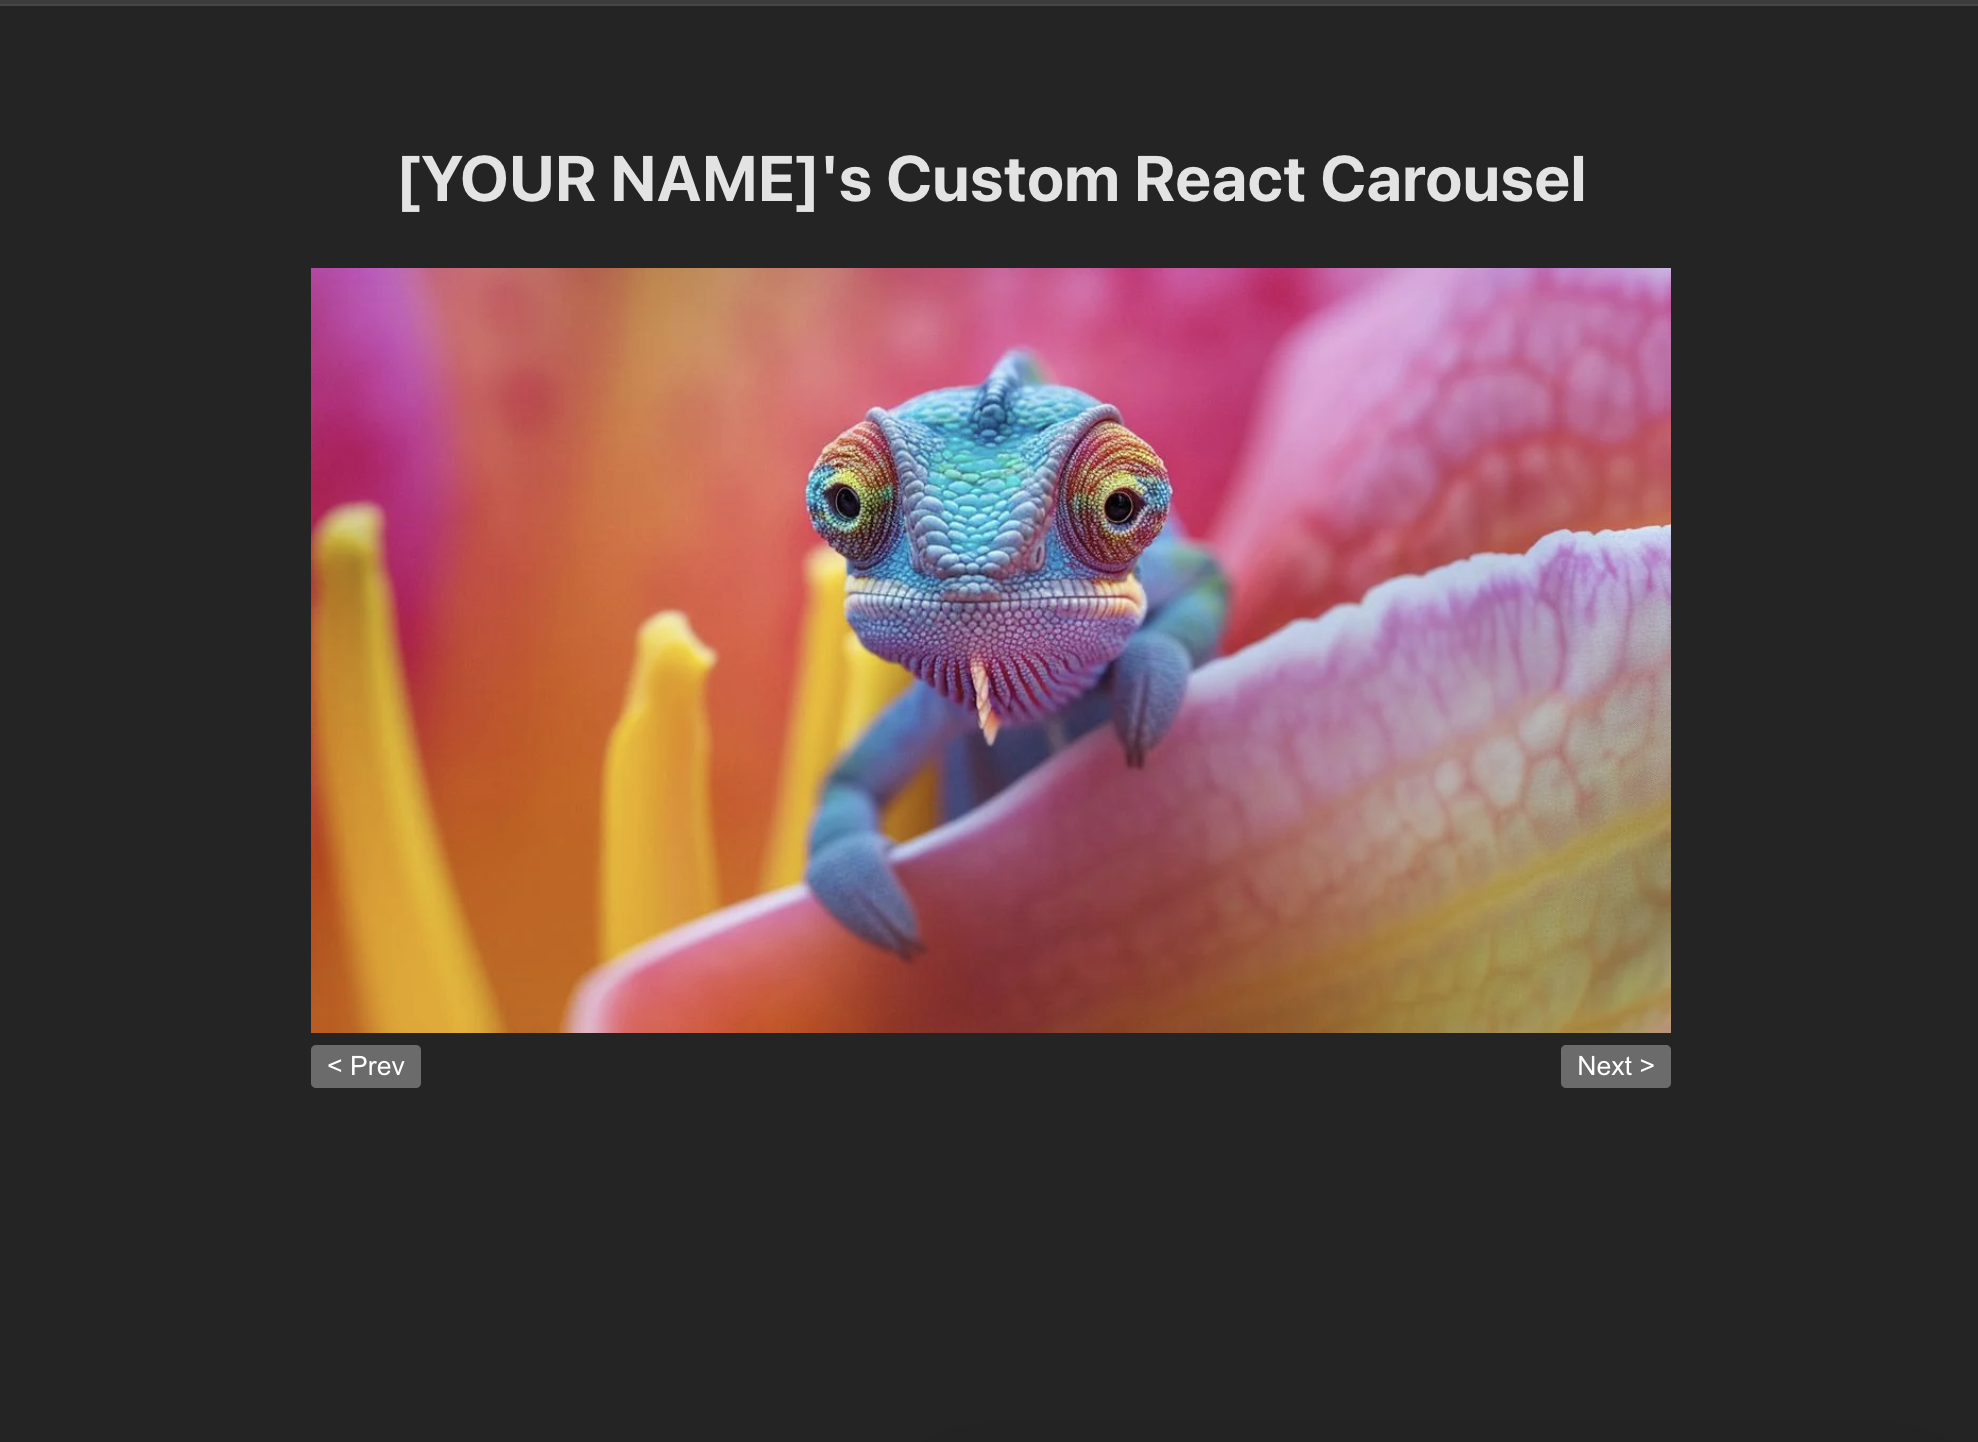
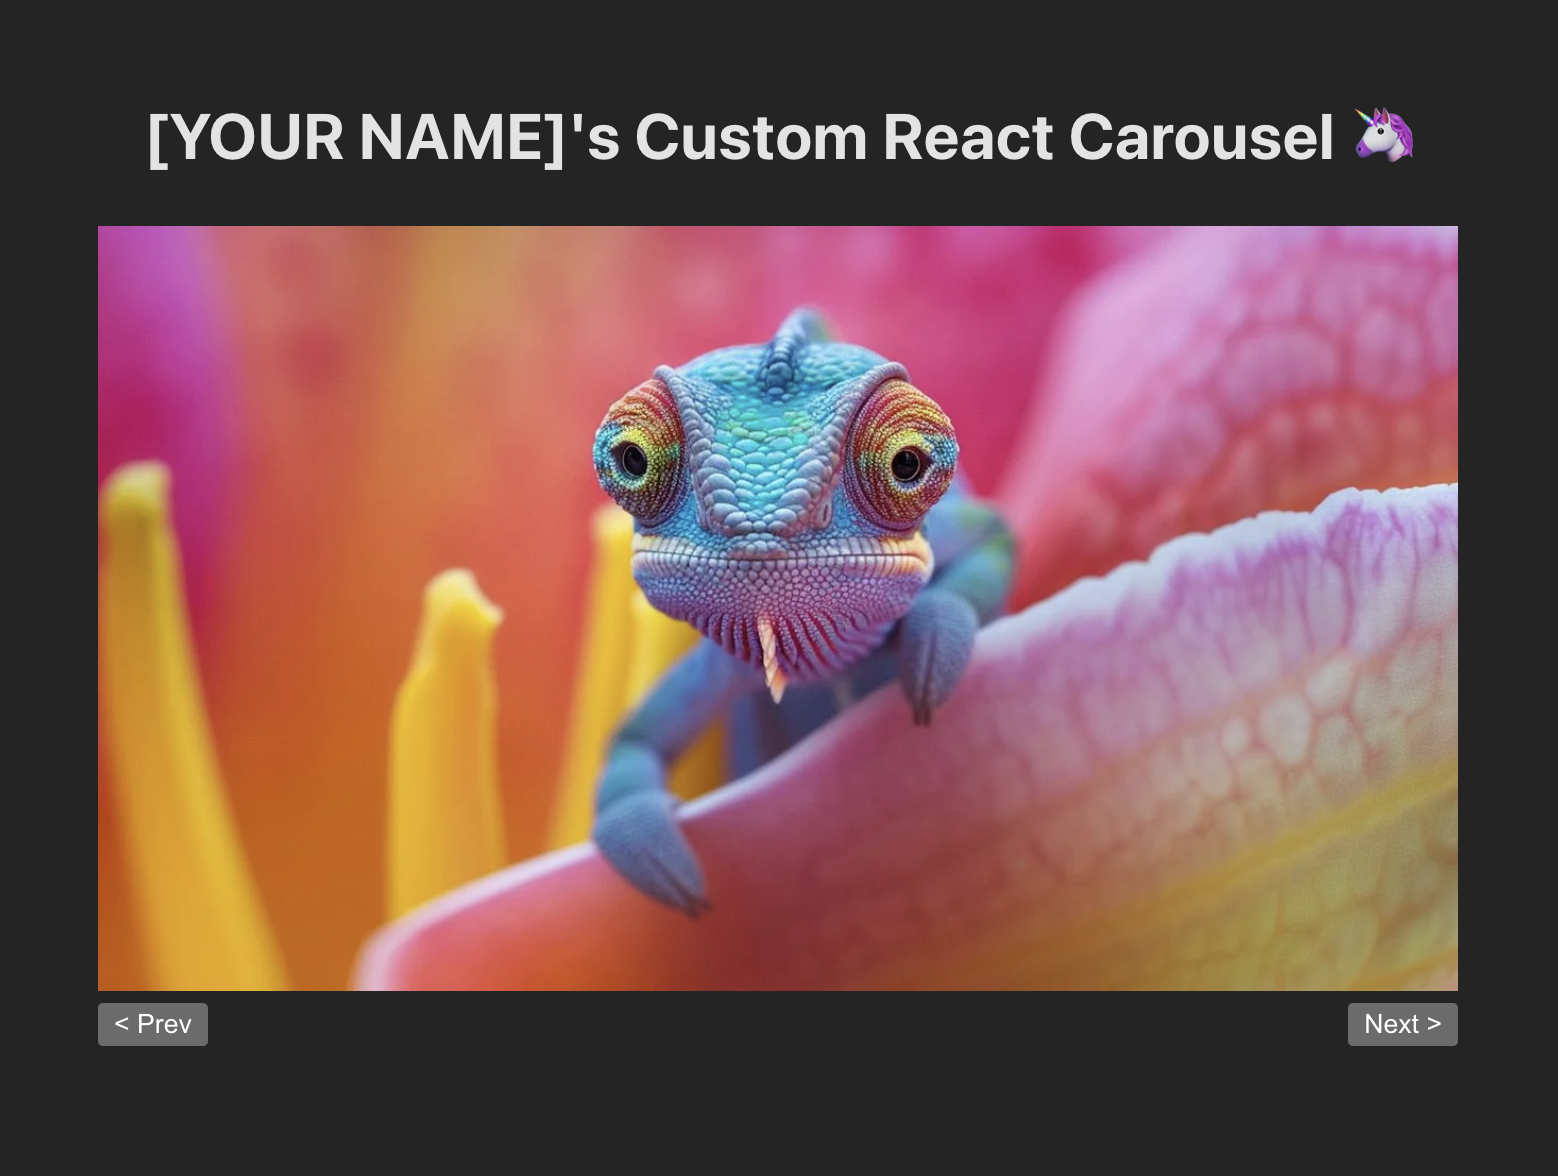
starter code

diff --git a/README.md b/README.md
@@ -1,3 +1,5 @@
-# Custom Carousel React Code Challenge
+### Code Challenge: Custom React Carousel 🎠
 
-[Deployed App](https://carousel-519718692451.us-central1.run.app/)
+<img src = "./public/starter-code.png">
+
+[Zo's Live Demo](https://carousel-519718692451.us-central1.run.app/)
